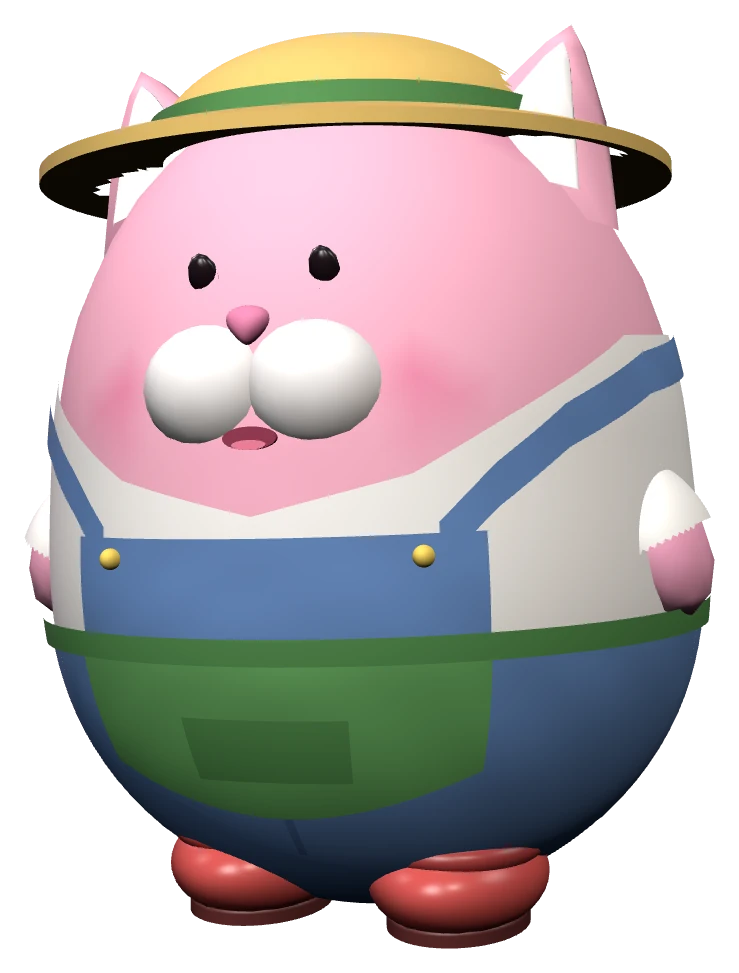
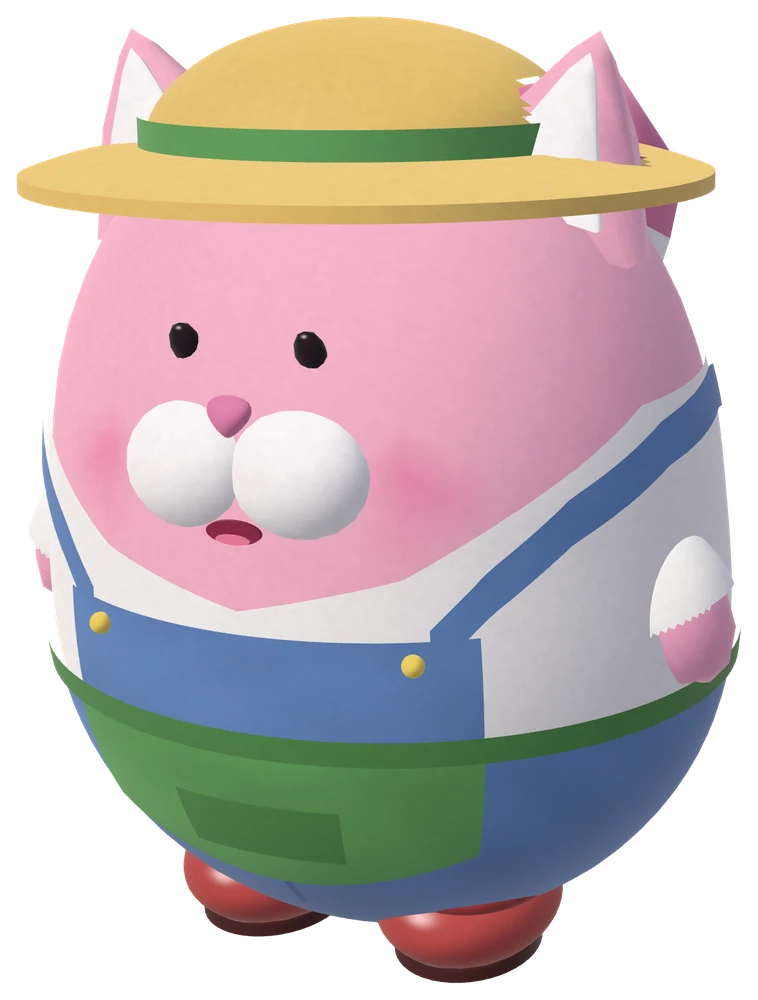
핑옹이 이미지를 레트로 CG 뷰어 조명으로 다시 렌더
Claude-Session: https://claude.ai/code/session_01WoDD6EAwxnCpoYtQV8FDJ9

diff --git a/src/components/illustrations/Pingongi.tsx b/src/components/illustrations/Pingongi.tsx
@@ -1,6 +1,6 @@
 import { Image } from 'expo-image';
 
-/** 핑옹이 3D 렌더 이미지 (원본: 프로젝트 파일 pingong/pingong_v1.glb) */
+/** 핑옹이 3D 렌더 이미지 (레트로 CG 뷰어와 같은 조명으로 렌더, 원본: 프로젝트 파일 pingong/pingong_v1.glb) */
 const POSES = {
   default: require('../../../assets/images/pingong/pingong_default.webp'),
   greet: require('../../../assets/images/pingong/pingong_greet.webp'),
@@ -13,7 +13,7 @@ export function Pingongi({ size = 120, pose = 'default' }: { size?: number; pose
   return (
     <Image
       source={POSES[pose]}
-      style={{ width: size, height: size * 1.3 }}
+      style={{ width: size, height: size * 1.36 }}
       contentFit="contain"
       accessibilityLabel="핑옹이"
     />
